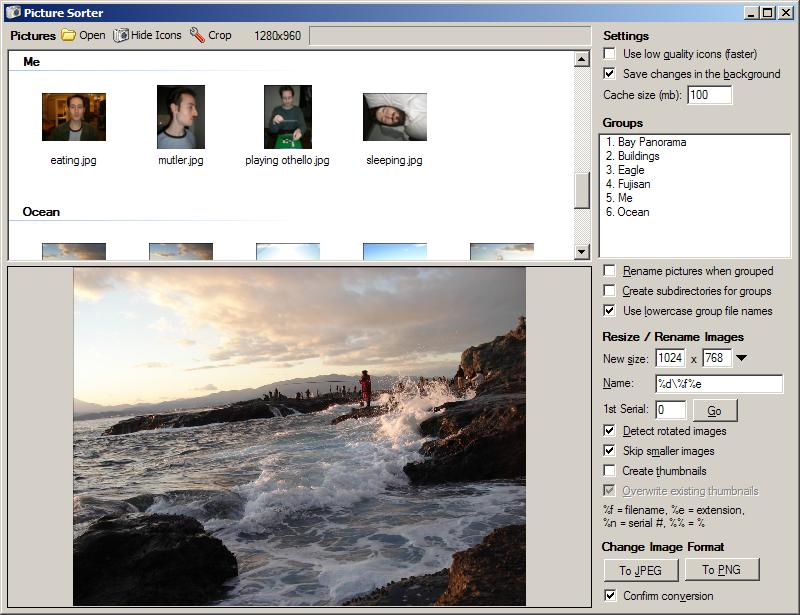
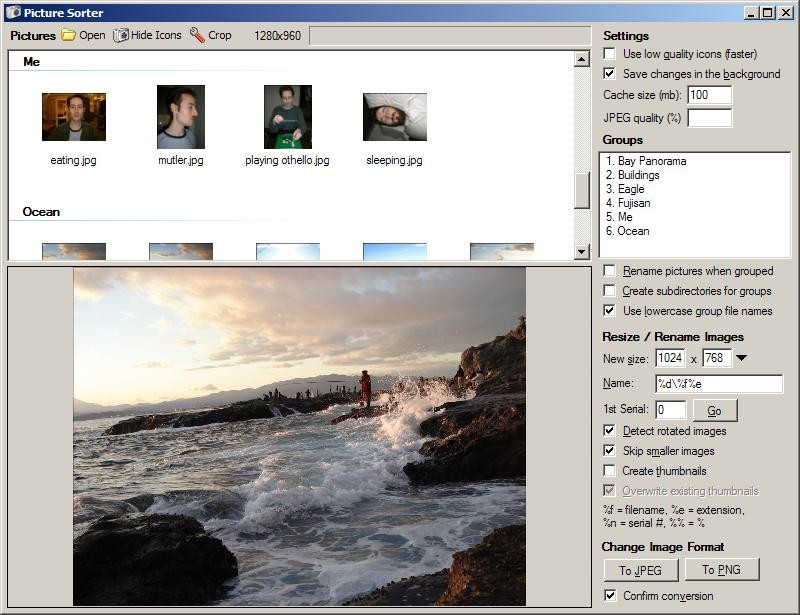
help.html: img/main.jpg: PictureSorter.csproj: * Updated help files

Changed region(s): [[0.75, 0.1545, 1.0, 0.4016]]

diff --git a/help.html b/help.html
@@ -82,6 +82,9 @@
       that the image currently being edited will be kept in memory even if it exceeds the cache size. A larger cache
       makes the "Save changes in the background" option more effective. The cache size can be from 0 to 1024 megabytes.
     </li>
+    <li><b>JPEG quality</b> &ndash; This box allows you to override the default JPEG quality, from 0 (worst) to 100 (best). If
+      the box is left blank, the default JPEG quality will be used.
+    </li>
   </ul>
   
   <h3>Groups</h3>
